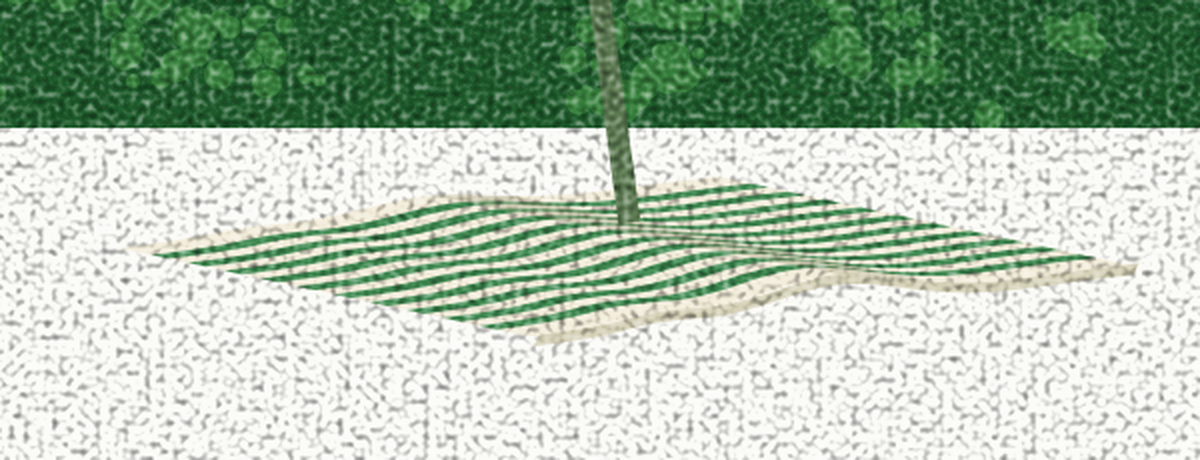
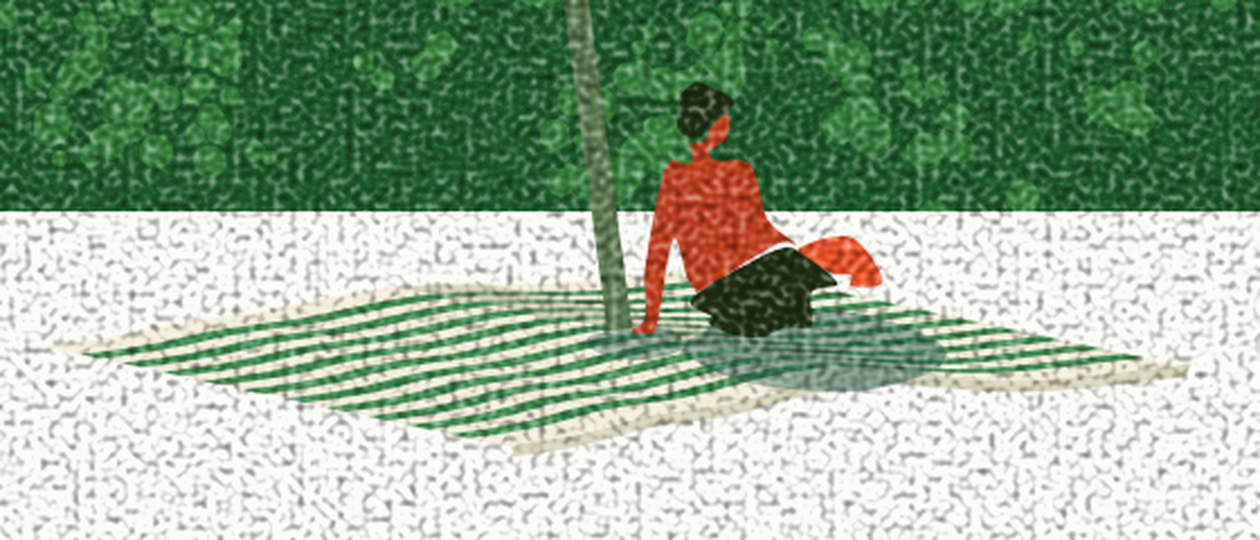
L'homme posé sur la serviette, ancré par sa main au mât coupé
Le décalque corrigé : le paquet orange en bas à droite était la MAIN
de la femme plantée sous son tibia, pas un pied à lui — ses jambes
disparaissent sous l'encre puis sous cette main, le contour s'arrête
donc sur l'encre. Ses ombres décalquées arrivent : le sarcelle profond
(#2E5E50, 0.55) à sa droite suivant la pente du tissu, la petite sous
le bras d'appui — assez denses pour survivre au grain. Il se pose par
son point de contact : doigts au bord droit du mât (36 px de référence
entre mât et assise), y demandé à la serviette pli compris via le
nouveau serviette_pose() ; le mât coupé s'arrête désormais à hauteur
de la main (v=0.52), comme le relevé. Deux réglages jugés à l'œil se
sont mesurés dans l'autre sens : écarts vérifiés au pixel sur le rendu.

Claude-Session: https://claude.ai/code/session_015un2t2xRvThoKm9jAu6CXK

diff --git a/illustration/personnages.py b/illustration/personnages.py
@@ -255,14 +255,19 @@ def _catmull_ferme(points):
 PEAU_OMBRE_H = "#BF4020"    # buste, bras, tete - sous la toile
 PEAU_SOLEIL_H = "#E95028"   # cuisses, tibias, pieds - au soleil
 ENCRE_H = "#203014"         # cheveux ET short - la meme encre
+OMBRE_SERVIETTE = "#2E5E50"  # son ombre sur le tissu - sarcelle profond
 
-# Les contours DECALQUES de la reference (masques de couleur,
-# ouverture morphologique contre les mouchetures du grain, suivi de
-# bord, simplification Douglas-Peucker). Coordonnees locales en pixels
-# de la reference, relatives au point d'assise (905, 800). Le bras de
-# la femme, qui passe devant la cheville, est exclu : il reviendra
-# avec elle. Voir METHODE.md - un contour se decalque, il ne se
-# redessine pas de memoire.
+# Les contours DECALQUES de la reference (masques de couleur, ouverture
+# morphologique contre les mouchetures du grain, suivi de bord,
+# simplification Douglas-Peucker). Coordonnees locales en pixels de la
+# reference, relatives au point d'assise (905, 800).
+#
+# CE QUI N'EST PAS A LUI, appris en se trompant : la MAIN de la femme se
+# plante juste sous son tibia - le paquet orange en bas a droite est a
+# elle, pas un pied a lui. Ses jambes a lui disparaissent sous l'encre
+# (l'ombre sous ses genoux) puis sous cette main : le decalque s'arrete
+# donc sur l'encre, et elle reviendra avec la femme.
+
 _H_SILHOUETTE = [  # 27 points
     (5.0, -78.0),
     (0.0, -74.0),
@@ -292,35 +297,25 @@ _H_SILHOUETTE = [  # 27 points
     (4.0, -68.0),
     (6.0, -73.0),
 ]
-_H_JAMBES_SOLEIL = [  # 19 points
+_H_JAMBES_SOLEIL = [  # 7 points
     (47.0, -34.0),
-    (57.0, -27.0),
-    (62.0, -12.0),
-    (65.0, -13.0),
-    (66.0, -18.0),
-    (71.0, -10.0),
-    (66.0, -4.0),
-    (61.0, 8.0),
-    (49.0, 8.0),
-    (48.0, 6.0),
-    (48.0, 4.0),
-    (57.0, 3.0),
-    (60.0, -6.0),
-    (53.0, -9.0),
-    (54.0, -11.0),
-    (50.0, -15.0),
-    (49.0, -21.0),
+    (56.0, -28.0),
+    (61.0, -17.0),
+    (50.0, -16.0),
+    (50.0, -20.0),
     (42.0, -21.0),
     (31.0, -29.0),
 ]
-_H_SHORT = [  # 11 points
+_H_SHORT = [  # 13 points
     (23.0, -29.0),
     (33.0, -27.0),
-    (46.0, -16.0),
-    (35.0, 0.0),
+    (45.0, -17.0),
+    (36.0, -14.0),
+    (36.0, -3.0),
+    (34.0, -1.0),
     (26.0, -1.0),
-    (22.0, 2.0),
-    (17.0, 2.0),
+    (19.0, 2.0),
+    (10.0, 2.0),
     (1.0, -1.0),
     (-1.0, -3.0),
     (0.0, -5.0),
@@ -342,22 +337,38 @@ _H_CHEVEUX = [  # 10 points
 
 def homme_serviette(ox, oy, k=1.0, indent=4):
     u"""
-    L'homme assis de la reference, a l'identique : quatre aplats fermes
-    (silhouette a l'ombre, jambes au soleil, encre du short et son ombre,
-    encre des cheveux), chacun un contour decalque lisse par Catmull-Rom.
+    L'homme assis de la reference, a l'identique : ses OMBRES d'abord
+    (le sarcelle profond releve sur la serviette : #4F806A), puis quatre
+    aplats fermes - silhouette a l'ombre de la toile, jambes au soleil,
+    encre du short et de l'ombre sous les genoux, encre des cheveux.
 
     (ox, oy) : le point d'assise sur la serviette. k : l'echelle.
     """
     e = " " * indent
 
-    def aplat(pts, couleur):
+    def aplat(pts, couleur, opacite=None):
         P = [(ox + x * k, oy + y * k) for (x, y) in pts]
-        return u'<path d="%s" fill="%s"/>' % (_catmull_ferme(P), couleur)
+        o = u' opacity="%.2f"' % opacite if opacite else u''
+        return u'<path d="%s" fill="%s"%s/>' % (_catmull_ferme(P), couleur, o)
 
-    out = [aplat(_H_SILHOUETTE, PEAU_OMBRE_H),
-           aplat(_H_JAMBES_SOLEIL, PEAU_SOLEIL_H),
-           aplat(_H_SHORT, ENCRE_H),
-           aplat(_H_CHEVEUX, ENCRE_H)]
+    out = []
+
+    # SES OMBRES SUR LE TISSU, decalquees de la reference : la grande
+    # tombe a sa DROITE (le soleil vient de gauche dans cette image, comme
+    # la toile au-dessus), la petite sous son bras d'appui. Translucides :
+    # dans le modele les rayures restent lisibles DANS l'ombre.
+    out.append(aplat([(-10.0, 5.0), (12.0, -6.0), (40.0, -8.0),
+                      (68.0, -2.0), (84.0, 7.0), (76.0, 16.0),
+                      (48.0, 22.0), (14.0, 19.0), (-4.0, 12.0)],
+                     OMBRE_SERVIETTE, 0.55))
+    out.append(aplat([(-43.0, 1.5), (-16.0, -0.5), (-11.0, 6.5),
+                      (-25.0, 10.5), (-41.0, 8.0)],
+                     OMBRE_SERVIETTE, 0.50))
+
+    out.append(aplat(_H_SILHOUETTE, PEAU_OMBRE_H))
+    out.append(aplat(_H_JAMBES_SOLEIL, PEAU_SOLEIL_H))
+    out.append(aplat(_H_SHORT, ENCRE_H))
+    out.append(aplat(_H_CHEVEUX, ENCRE_H))
     return u"%s<g inkscape:label=\"Homme de la serviette\">\n%s\n%s</g>" % (
         e, "\n".join(u"%s  %s" % (e, x) for x in out), e)
 
@@ -424,18 +435,15 @@ def _serviette_champ(ox, oy, k):
     return A, B, C, D, pli, point
 
 
-def serviette_coupe_mat(ox, oy, k=1.0, x_mat=None):
+def serviette_pose(ox, oy, k=1.0, x=None, v=0.5):
     u"""
-    Le y ou le mat doit S'ARRETER sur la serviette.
-
-    Sur la reference le mat ne se plante pas derriere le tissu : il continue
-    PAR-DESSUS les premieres rayures et s'arrete net au premier tiers de la
-    profondeur (releve : 18 px sur 54). C'est la serviette qui sait ou est
-    son tiers - le pli compris - donc c'est elle qu'on interroge.
+    Le y DU TISSU, pli compris, a l'abscisse x et a la fraction v de la
+    profondeur (0 = bord pres, 1 = bord loin). C'est la serviette qu'on
+    interroge pour poser quoi que ce soit dessus - le mat comme l'homme.
     """
     _, _, _, _, _, point = _serviette_champ(ox, oy, k)
-    x = ox if x_mat is None else x_mat
-    v = 2.0 / 3.0                       # un tiers depuis le bord loin (v=1)
+    if x is None:
+        x = ox
     lo, hi = 0.0, 1.0                   # x(u, v) est monotone en u
     for _ in range(40):
         mid = (lo + hi) / 2.0
@@ -444,6 +452,18 @@ def serviette_coupe_mat(ox, oy, k=1.0, x_mat=None):
         else:
             hi = mid
     return point((lo + hi) / 2.0, v)[1]
+
+
+def serviette_coupe_mat(ox, oy, k=1.0, x_mat=None):
+    u"""
+    Le y ou le mat doit S'ARRETER sur la serviette.
+
+    Sur la reference le mat ne se plante pas derriere le tissu : il continue
+    PAR-DESSUS les rayures et s'arrete net A HAUTEUR DE LA MAIN posee de
+    l'homme (releve : coupe a y=800, main a 795-802) - c'est elle qui
+    donne le sens du trait coupe.
+    """
+    return serviette_pose(ox, oy, k, x_mat, v=0.52)
 
 
 def serviette_rayee(ox, oy, k=1.0, indent=4):

diff --git a/illustration/construire.py b/illustration/construire.py
@@ -66,6 +66,11 @@ AVEC_PERSONNAGES = False
 
 # LA SERVIETTE RAYEE, seule : on la regle avant d'y rasseoir le couple.
 AVEC_SERVIETTE_RAYEE = True
+
+# L'HOMME sur la serviette - le premier personnage, decalque de la
+# reference. Sa MAIN se plante a cote du mat coupe, comme dans le modele :
+# c'est elle qui fixe sa place, pas le centre du tissu.
+AVEC_HOMME = True
 PART_HERBE = 0.10
 
 # LE GRAIN GLOBAL. A True, un seul calque de points couvre toute l'image et
@@ -294,6 +299,39 @@ SERVIETTE = '' if not AVEC_SERVIETTE else serviette.dessiner(cx=0.263 * LARGEUR,
                                hauteur=0.150 * HAUTEUR,
                                pivot=-1.5, pourtour=0.0105 * LARGEUR,
                                indent=2)
+
+
+def bloc_serviette_rayee():
+    u"""
+    La serviette rayee, le mat coupe par-dessus, et l'homme si demande.
+
+    k=0.85 : le losange de la reference a sa taille pleine deborderait du
+    cadre, notre parasol 2 etant plus a droite que le sien (0.84 contre
+    0.70). L'echelle des personnages suit LA MEME reduction : un homme a
+    l'echelle 1 sur une serviette a 0.85 serait un geant sur un mouchoir.
+    """
+    ox, oy, kt = 0.840 * LARGEUR, 0.858 * HAUTEUR, 0.85
+    morceaux = [personnages.serviette_rayee(ox, oy, kt, 2)]
+
+    # le mat repasse PAR-DESSUS la serviette et s'arrete net a son premier
+    # tiers - l'effet stylise de la reference : le tissu n'est pas au pied
+    # du parasol, le parasol se plante dedans
+    morceaux.append(parasols.mat_sur_serviette(
+        LARGEUR, HAUTEUR, personnages.serviette_coupe_mat(ox, oy, kt)))
+
+    if AVEC_HOMME:
+        # pixels de la reference -> notre cadre, fois le 0.85 du tissu
+        K = (HAUTEUR / 928.0) * kt
+        # SA PLACE : la main a plat a cote du mat coupe, comme le modele -
+        # le bout des doigts au bord droit du trait (releve : doigts a 869,
+        # mat 863-871 ; MESURE sur notre rendu, pas regle a l'oeil - l'oeil
+        # s'etait trompe de sens). Le y s'interroge aupres de la serviette,
+        # pli compris.
+        assise_x = ox + 36.0 * K
+        assise_y = personnages.serviette_pose(ox, oy, kt, assise_x, v=0.50)
+        morceaux.append(personnages.homme_serviette(assise_x, assise_y, K, 2))
+
+    return "\n".join(morceaux)
 
 import os
 if not AVEC_ENFANT:
@@ -579,23 +617,7 @@ SVG = u"""<svg xmlns="http://www.w3.org/2000/svg"
                      else '  <!-- sol vert retire -->'),
            PERSONNAGES=(personnages.engendrer(LARGEUR, HAUTEUR)
                         if AVEC_PERSONNAGES
-                        else ((personnages.serviette_rayee(
-                                   # k=0.85 : le losange de la reference a
-                                   # sa taille pleine deborderait du cadre,
-                                   # notre parasol 2 etant plus a droite
-                                   # que le sien (0.84 contre 0.70)
-                                   0.840 * LARGEUR, 0.858 * HAUTEUR, 0.85, 2)
-                               + "\n"
-                               # le mat repasse PAR-DESSUS la serviette et
-                               # s'arrete net a son premier tiers - l'effet
-                               # stylise de la reference : le tissu n'est
-                               # pas au pied du parasol, le parasol se
-                               # plante dedans
-                               + parasols.mat_sur_serviette(
-                                   LARGEUR, HAUTEUR,
-                                   personnages.serviette_coupe_mat(
-                                       0.840 * LARGEUR, 0.858 * HAUTEUR,
-                                       0.85)))
+                        else (bloc_serviette_rayee()
                               if AVEC_SERVIETTE_RAYEE
                               else '  <!-- personnages retires -->')),
            HERBE=(herbe.engendrer(LARGEUR, HAUTEUR, PART_HERBE)[0]

diff --git a/illustration/METHODE.md b/illustration/METHODE.md
@@ -273,6 +273,16 @@ SEULE masse d'encre dans le modèle ; le buste est à l'ombre de la toile
 (#BF4020), les jambes au soleil (#E95028) — c'est la toile qui coupe la
 couleur, pas l'anatomie.
 
+**Un personnage se pose par son point de contact, pas par son centre.**
+L'homme est ancré par sa MAIN à plat : le bout des doigts au bord droit du
+mât coupé (relevé : doigts à 869, mât 863-871), l'assise 36 px de
+référence à droite, le y demandé à la serviette pli compris
+(`serviette_pose`). Et le mât s'arrête **à hauteur de cette main** — c'est
+elle qui donne le sens du trait coupé. Deux corrections de position ont été
+jugées à l'œil dans un sens… et mesurées dans l'autre : l'écart doigt-mât
+se mesure sur le rendu (détecteur pollué par l'ombre sarcelle → fenêtres
+serrées), jamais à l'estime sur un zoom.
+
 **Un relevé tronqué par un personnage décrit un autre objet.** Le premier
 relevé de la serviette s'arrêtait à l'homme assis : il mesurait la partie
 visible à sa gauche et prenait le bord de l'homme pour le bout du tissu —
